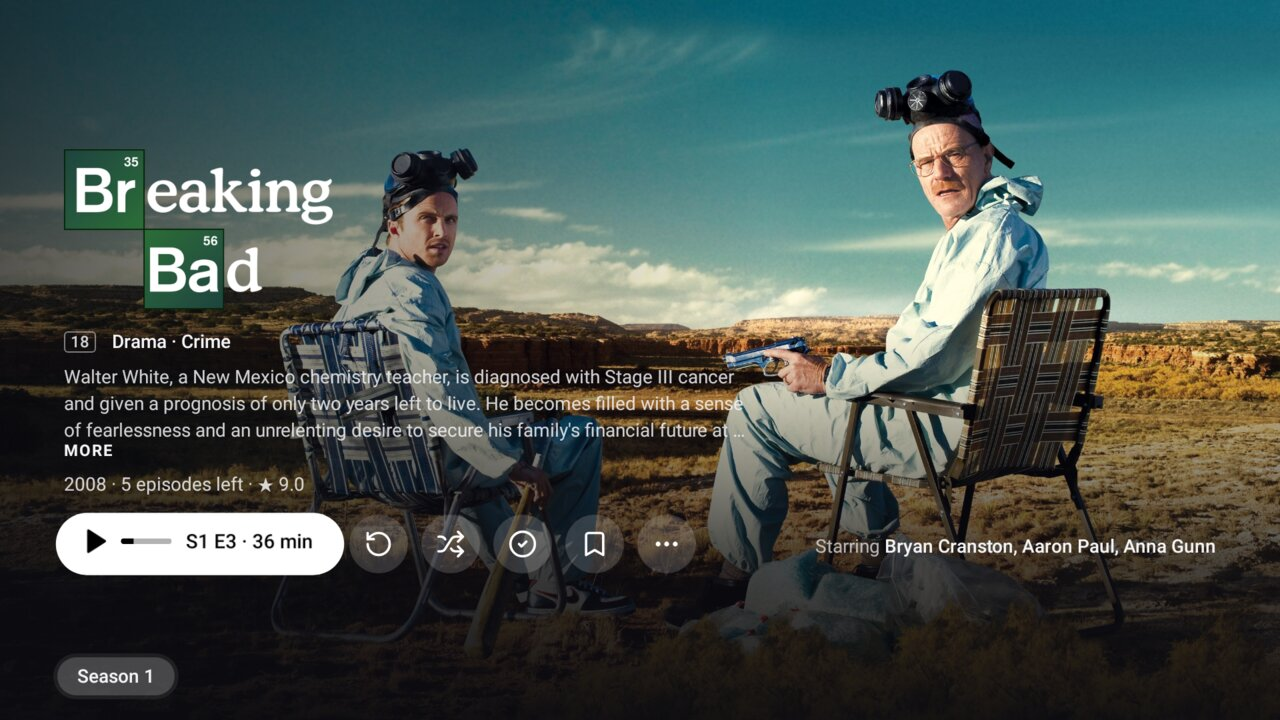
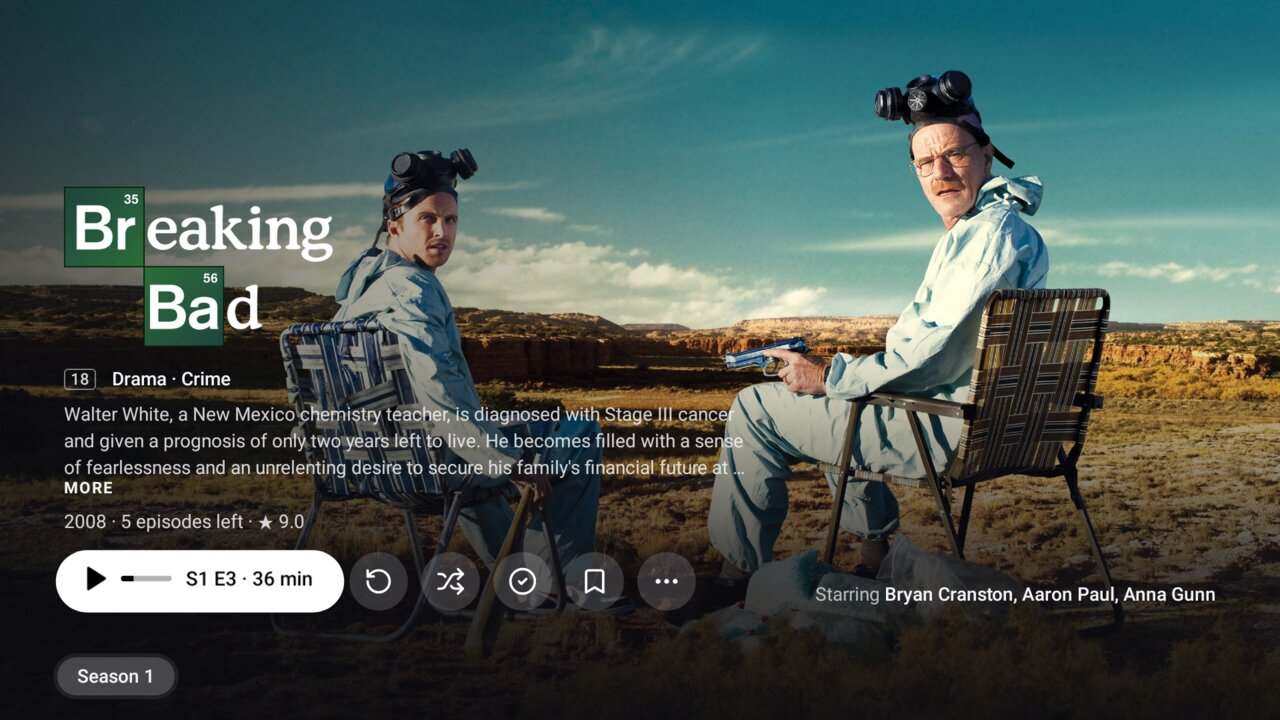
Show page: bring the header down onto the season bar
The focused round button's name no longer reserves a strip under the
buttons; it is drawn in the space below them. A show's header now sits on
its season bar, as on LG/Samsung, while a film keeps its bottom margin.
README picture and change note updated.

Changed region(s): [[0.0312, 0.2139, 0.5938, 0.8556], [0.625, 0.7333, 0.9375, 0.8556]]

diff --git a/app/src/main/java/org/arcmediaserver/android/ui/details/DetailsScreen.kt b/app/src/main/java/org/arcmediaserver/android/ui/details/DetailsScreen.kt
@@ -46,6 +46,7 @@ import androidx.compose.runtime.saveable.rememberSaveable
 import androidx.compose.runtime.setValue
 import androidx.compose.ui.Alignment
 import androidx.compose.ui.Modifier
+import androidx.compose.ui.layout.layout
 import androidx.compose.ui.draw.alpha
 import androidx.compose.ui.draw.clip
 import androidx.compose.ui.focus.FocusRequester
@@ -347,7 +348,8 @@ private fun Header(
     // The artwork fills the screen with everything low on it (owner, 16 November): the logo, the
     // age rating and genres, the description, the year and running time with the quality
     // capsules, then the Play button and round buttons; who's in it and who made it at the right.
-    Row(Modifier.padding(start = PageStart, end = PageStart, bottom = 8.dp), verticalAlignment = Alignment.Bottom) {
+    // A film's page keeps a margin at the bottom of the screen; a show's sits on its season bar.
+    Row(Modifier.padding(start = PageStart, end = PageStart, bottom = if (item.isSeries) 8.dp else 40.dp), verticalAlignment = Alignment.Bottom) {
     Column(Modifier.weight(1f)) {
         org.arcmediaserver.android.ui.browse.TitleLogo(item, maxHeight = 120.dp, maxWidth = 460.dp, textStyle = MaterialTheme.typography.displayMedium)
         if (item.isEpisode) {
@@ -466,8 +468,15 @@ private fun Header(
                 modifier = labelled(moreLabel, Modifier.focusRequester(more).onGloballyPositioned { moreBounds = it.boundsInRoot() }),
             )
         }
-        // The focused round button's name, or what couldn't be saved.
-        Box(Modifier.height(28.dp).padding(top = 8.dp)) {
+        // The focused round button's name, or what couldn't be saved, under the buttons. It takes
+        // no room of its own (it's drawn in the space below), so a show's season bar sits right
+        // under the buttons, as the LG/Samsung app.
+        Box(
+            Modifier.layout { measurable, constraints ->
+                val placeable = measurable.measure(constraints.copy(minHeight = 0, maxHeight = androidx.compose.ui.unit.Constraints.Infinity))
+                layout(placeable.width, 0) { placeable.place(0, 0) }
+            }.padding(top = 8.dp),
+        ) {
             // A season's problem shows beside its own button, in the seasons below.
             val problem = actions.problem?.takeIf { it != ActionProblem.Season }
             if (problem != null) {
@@ -479,18 +488,18 @@ private fun Header(
                             else -> R.string.action_watchlist_failed
                         },
                     ),
-                    style = MaterialTheme.typography.labelLarge, color = ArcColors.Warning,
+                    style = MaterialTheme.typography.labelLarge, color = ArcColors.Warning, maxLines = 1,
                 )
                 LaunchedEffect(problem) {
                     kotlinx.coroutines.delay(5_000)
                     actions.onProblemShown()
                 }
             } else {
-                focusedLabel?.let { Text(it, style = MaterialTheme.typography.labelLarge, color = ArcColors.Foreground.copy(alpha = 0.8f)) }
+                focusedLabel?.let { Text(it, style = MaterialTheme.typography.labelLarge, color = ArcColors.Foreground.copy(alpha = 0.8f), maxLines = 1) }
             }
         }
     }
-    HeaderCredits(item, Modifier.padding(start = 32.dp, bottom = 40.dp).widthIn(max = 420.dp))
+    HeaderCredits(item, Modifier.padding(start = 32.dp, bottom = 4.dp).widthIn(max = 420.dp))
     }
 }
 

diff --git a/docs/changes/2026-11-20-show-season-bar.md b/docs/changes/2026-11-20-show-season-bar.md
@@ -1,7 +1,8 @@
 # Show page: only the season bar under the header
 
 A show's page now opens with its header (logo, overview, Play and the round buttons) lower on the
-screen, so the only thing showing beneath it is the season bar. The episode pictures no longer
+screen, sitting right on the season bar as the LG/Samsung app's does, so the only thing showing
+beneath it is the season bar. The episode pictures no longer
 peek in at the bottom; they come up when you move down to the seasons, as before. Asked for by
 the owner after comparing the apps side by side (arc-media-server#494).
 [Picture](2026-11-20-show-season-bar/).
@@ -11,6 +12,12 @@ the owner after comparing the apps side by side (arc-media-server#494).
 - `DetailsScreen`: a show's header is the screen's height less `SeasonBarPeek` (74 dp: the space
   above the season tabs, the tabs and a small margin), instead of 88% of the page. A film's
   header is unchanged (the whole screen).
+- The focused round button's name ("Shuffle", "Play from the Beginning") still shows under the
+  buttons, but no longer reserves a strip of its own: it's drawn in the gap above the season
+  bar. That strip and the header's small bottom margin were what kept a show's header well above
+  its season bar. A film keeps its margin at the bottom of the screen, so its page looks as before.
+  (Showing the name beside the buttons, as Kodi does, was tried: the cast credits on the right
+  leave too little room, and "Shuffle" was cut to "Shuffl".)
 - `docs/screenshots/show-episodes.jpg` retaken (a Robolectric render by
   `LiveScreenshotTest.show` against the shared screenshot library, not a device capture), and its
   README description updated.
@@ -25,7 +32,8 @@ the owner after comparing the apps side by side (arc-media-server#494).
 
 - `./gradlew assembleDebug testDebugUnitTest recordRoborazziDebug`: passed, 271 tests, 0 failures,
   2 skipped (`LiveServerTest`, and the recorder that only runs with `ARC_SCREENSHOTS_RECORD=1`).
-- I looked at the show pictures: the header with only the season bar beneath it, and moving to
+- I looked at the show pictures, including a render with Shuffle focused (its name shows in
+  the gap above the season bar) and the season-failed message beside the season tabs: the header with only the season bar beneath it, and moving to
   an episode (`tv-show-from-episode`, `tv-show-row-back`) still brings the episodes up whole.
 - **Not tried:** no emulator or device (no KVM here), so the scrolling animation on a real TV
   hasn't been seen.
